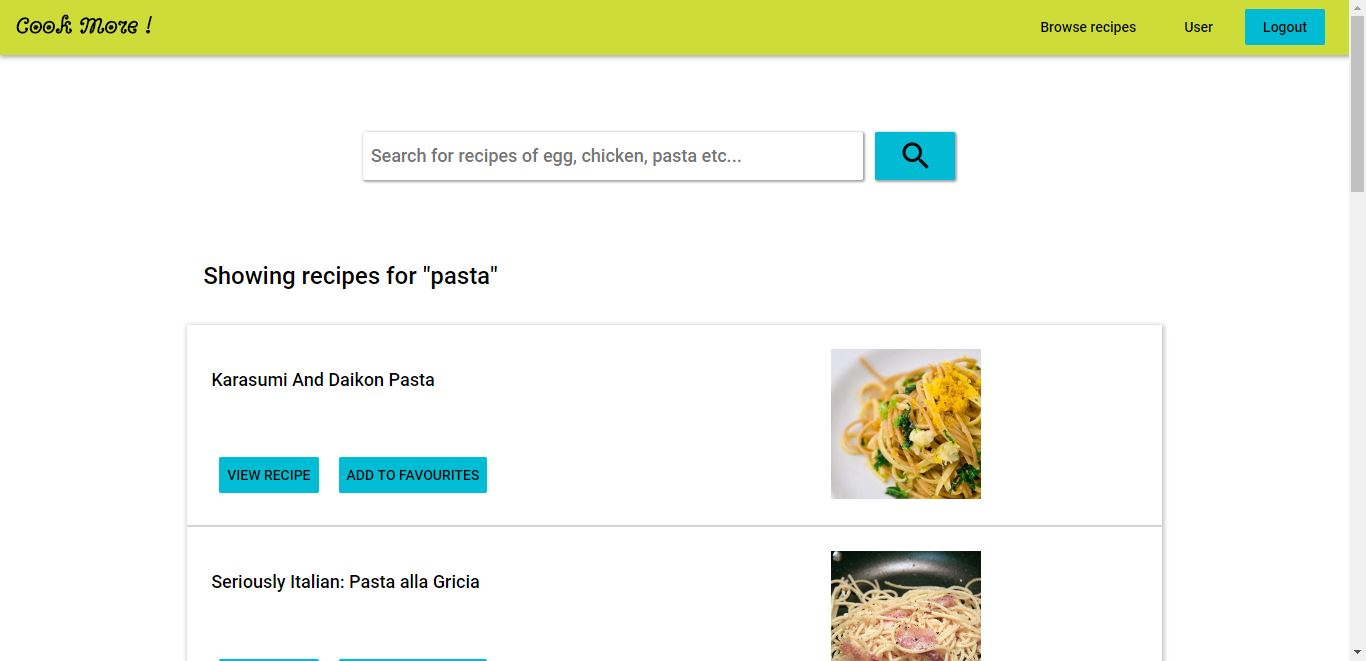
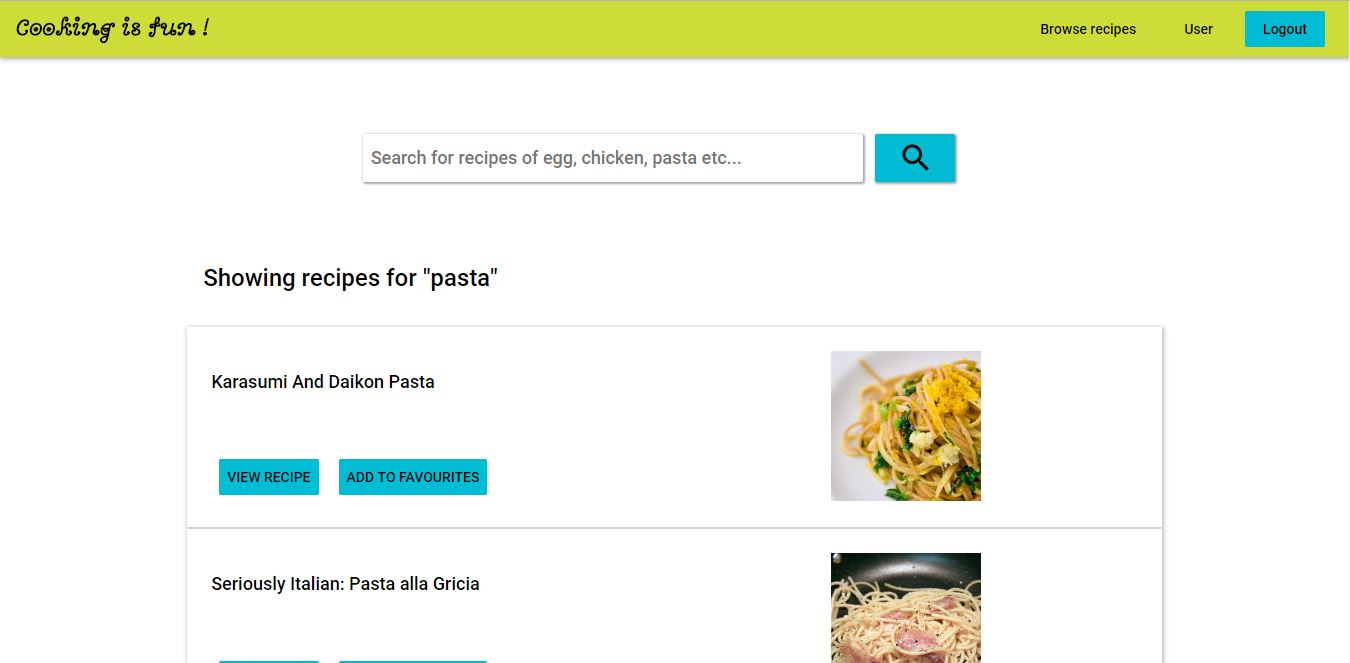
added new screenshot

diff --git a/styles/style.css b/styles/style.css
@@ -89,15 +89,15 @@ body{
 /*****************************************************************************/
 /*header*/
 /*****************************************************************************/
-header{
-  padding: 10px 16px;
-  height: 56px;
-}
 .landing-header{
   /*position: fixed;
   top: 0;
   width: 100%;*/
-  background-color: #cddc39;
+  /*background-color: #cddc39;*/
+  /*color: white;*/
+  padding: 13px 16px;
+  height: 64px;
+  background-color: #b0003a;
   box-shadow: 1px 1px 6px 1px rgba(0, 0, 0, 0.35);
 }
 .right-nav-section{
@@ -114,33 +114,32 @@ header{
   text-decoration: none;
   font-size: 24px;
   font-weight: bolder;
-  color: black;
+  /*color: black;*/
+  color: white;
   font-family: 'Bonbon', cursive;
 }
 
-.browse-recipes-button{
-  background-color:#cddc39;
+.browse-recipes-button, .user-button{
+  /*background-color:#cddc39;*/
+  background-color:#b0003a;
+  color: white;
   font-weight: 500;
   float: right;
 }
-.browse-recipes-button:hover{
+.browse-recipes-button:hover, .user-button:hover{
   /*background-color: #ffff6e;*/
-  border-bottom: 2px solid #00bcd4;
-}
-.user-button{
-  background-color:#cddc39;
-  font-weight: 500;
-  float: right;
-}
-.user-button:hover{
-  /*background-color: #ffff6e;*/
-  border-bottom: 2px solid #00bcd4;
+  /*border-bottom: 2px solid #00bcd4;*/
+  border-bottom: 2px solid #8ac149;
 }
 .logout-button{
   font-weight: 500;
   min-width: 80px;
   float: right;
-  background-color:#00bbd3;
+  /*background-color:#00bbd3;*/
+  background-color: #bdf479;
+}
+.logout-button:hover{
+  background-color: #8ac149;
 }
 
 /*****************************************************************************/
@@ -173,7 +172,8 @@ article{
   padding-top: 5px;
   padding-left: 10px;
   width: 80px;
-  background-color: #00bbd3;
+  /*background-color: #00bbd3;*/
+  background-color: #8ac149;
   box-shadow: 1px 1px 2px 1px rgba(0, 0, 0, 0.35);
 }
 .main-view-section{
@@ -210,14 +210,17 @@ article{
 }
 .favorites-button, .shopping-button{
   background-color: white;
-  border: 2px solid #62efff;
+  /*border: 2px solid #62efff;*/
+  border: 2px solid #bdf479;
   /*border-bottom:  2px solid #00bcd4;*/
 }
 .favorites-button:hover, .shopping-button:hover{
   /*border-bottom: 2px solid #00bcd4;*/
   /*background-color: #008ba3;*/
   /*border-bottom:  2px solid #008ba3;*/
-  border: 2px solid #008ba3;
+
+  /*border: 2px solid #008ba3;*/
+  border: 2px solid #599015;
 }
 .recipe-description-section, .fav-recipe-description-section{
   height: 100px;
@@ -262,9 +265,8 @@ article{
   padding: 8px;
 }
 .action-buttons-section button{
-  /*background-color: #62eeff;*/
-  background-color: #00bcd4;
-  /*background-color: white;*/
+  /*background-color: #00bcd4;*/
+  background-color: #8ac149;
   /*color: #62eeff;*/
   /*color: #008ba3;*/
   font-weight: 500;
@@ -338,10 +340,12 @@ article{
   overflow: hidden;
 }
 .activeList{
-  background-color: #008ba3;
   /*border: none;*/
   /*border-bottom: 2px solid #008ba3;*/
-  border: 2px solid #008ba3;
+  /*background-color: #008ba3;
+  border: 2px solid #008ba3;*/
+  background-color: #599015;
+  border: 2px solid #599015;
 }
 
 .display-shop-item{
@@ -363,13 +367,15 @@ article{
   padding : 0px 8px;
   font-size: 16px;
   border: none;
-  border-bottom: 2px solid #62eeff;
+  /*border-bottom: 2px solid #62eeff;*/
+  border-bottom: 2px solid #bdf479;
   margin-right: 32px;
 
 }
 .adding-shop-item input:focus{
   outline: none;
-  border-bottom: 2px solid #008ba2;
+  /*border-bottom: 2px solid #008ba2;*/
+  border-bottom: 2px solid #599015;
   /*border: none;*/
 }
 .add-shop-item-button{
